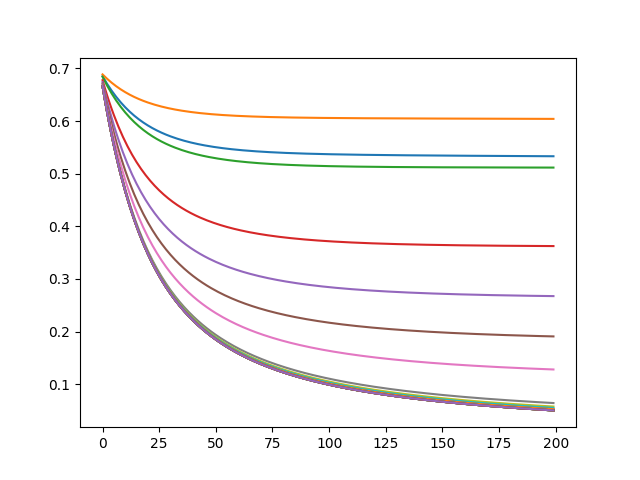
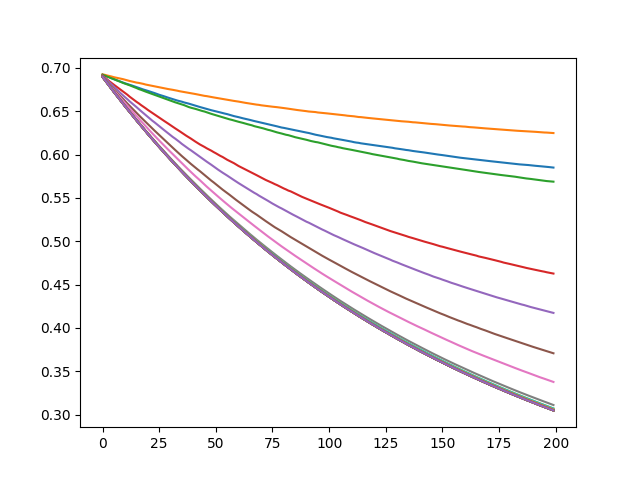
update Log_reg

diff --git a/Log_reg.py b/Log_reg.py
@@ -56,15 +56,18 @@ class LogisticRegression:
         costs = y * np.log(h + delta) + (1 - y) * np.log(1 - h + delta)
         return (-1 / size) * (np.sum(costs, axis=0))
 
-    def learn(self, lr, epoch):
+    def learn(self, lr, epoch,batch_size):
         costs = []
         eval_costs=[]
         size = self._x_train.shape[0]
         jlen = self._y_train.shape[1]
         for i in range(epoch):
+            batch_mask = np.random.choice(size, batch_size)
+            x_batch = self._x_train[batch_mask]
+            y_batch = self._y_train[batch_mask]
             for j in range(jlen):
-                dt = (self.sigmoid(self._x_train, self.bias[:, j]) - self._y_train[:, j]).reshape(size,
-                                                                                                  1) * self._x_train
+                dt = (self.sigmoid(x_batch, self.bias[:, j]) - y_batch[:, j]).reshape(batch_size,
+                                                                                                  1) * x_batch
                 # 그래디언트 백터 계산
                 self.bias[:, j] = self.bias[:, j] - lr * np.sum(dt, axis=0)
 
@@ -84,7 +87,7 @@ class LogisticRegression:
 
 # 학습
 log = LogisticRegression(x_train, y_train, x_test, y_test,x_eval,y_eval)
-bias, costs,eval_costs = log.learn(0.000002, 200)
+bias, costs,eval_costs = log.learn(0.000002, 200,200)
 pre_cnt = 0
 pre_wr =0
 for i in range (len(x_test)):
